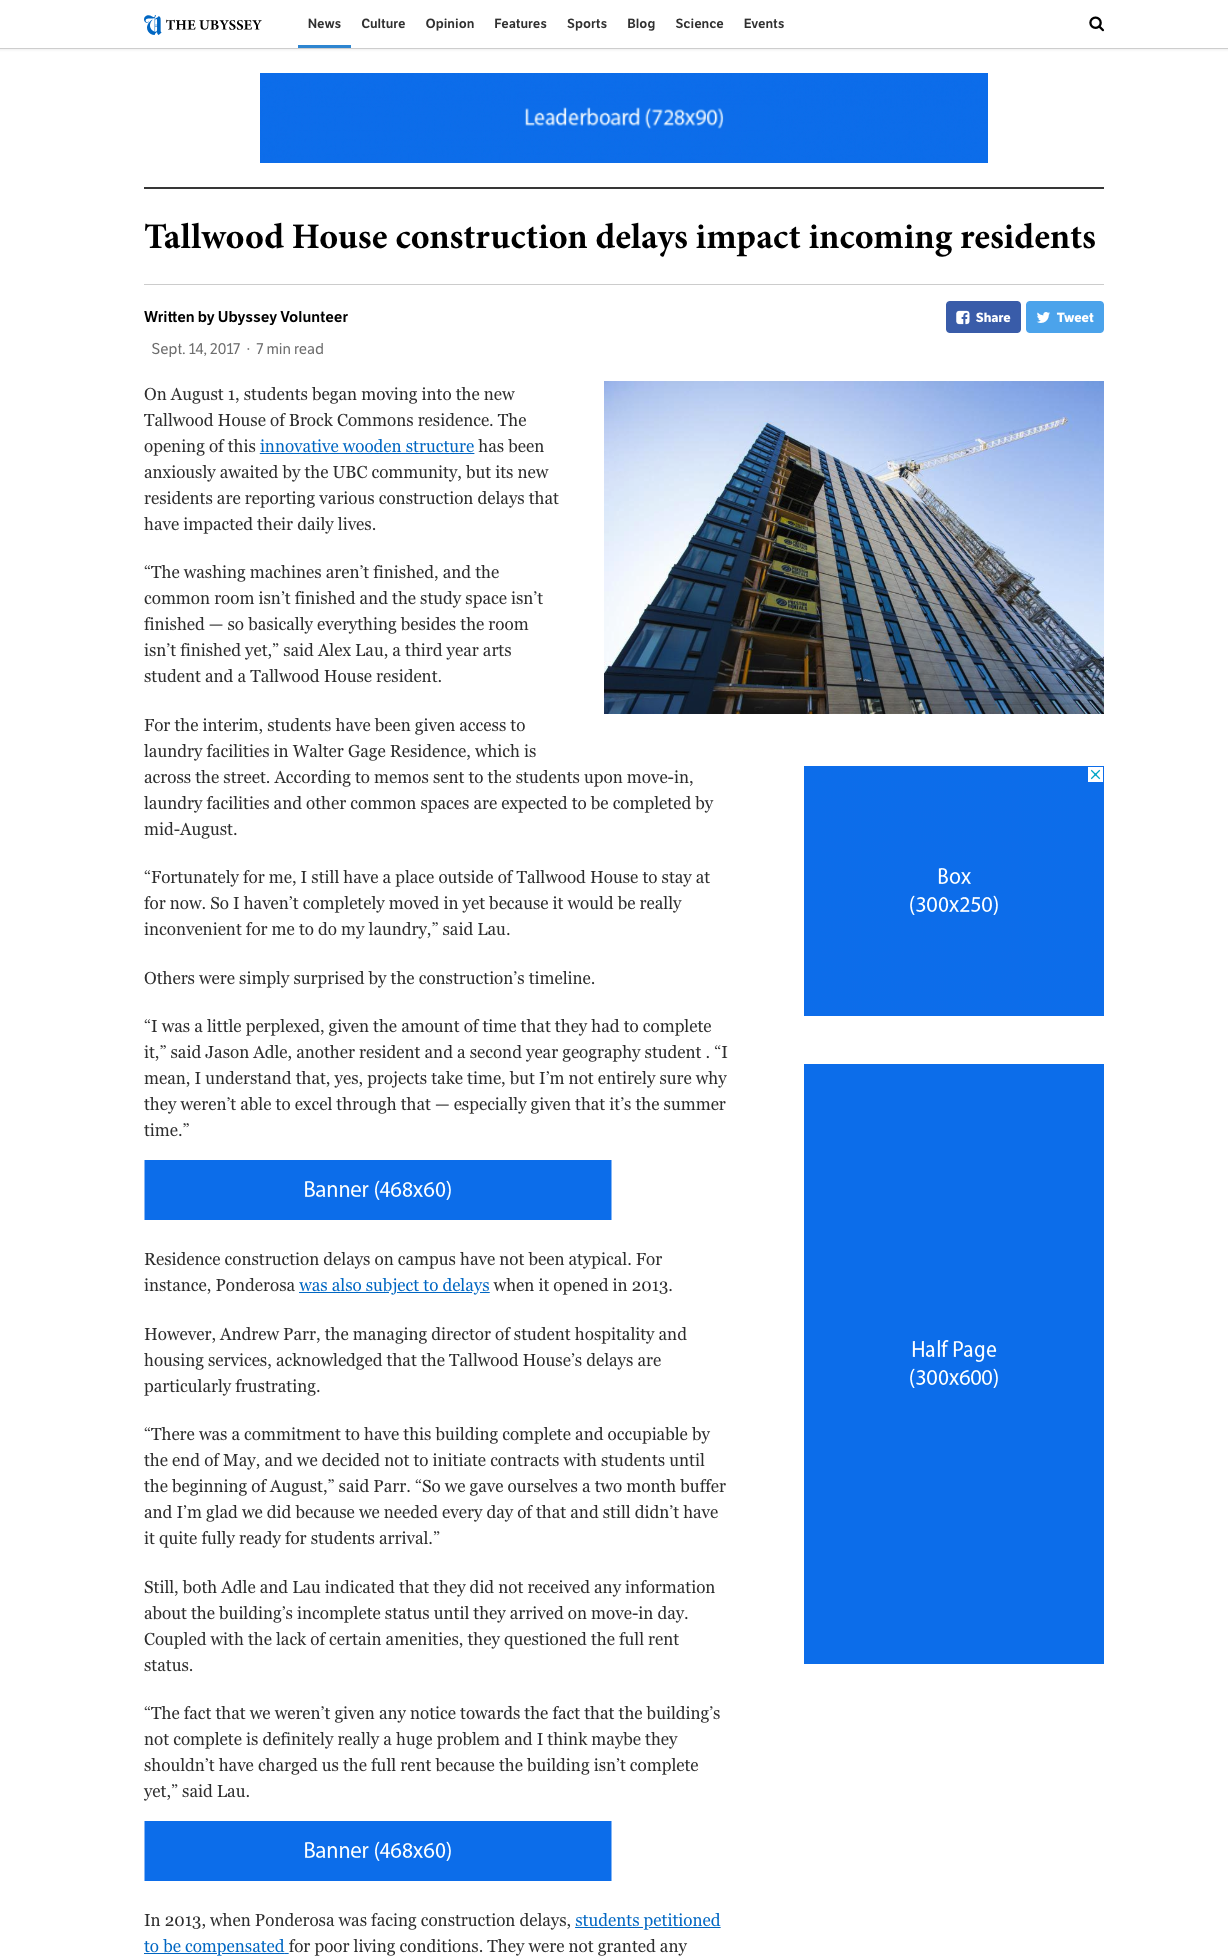
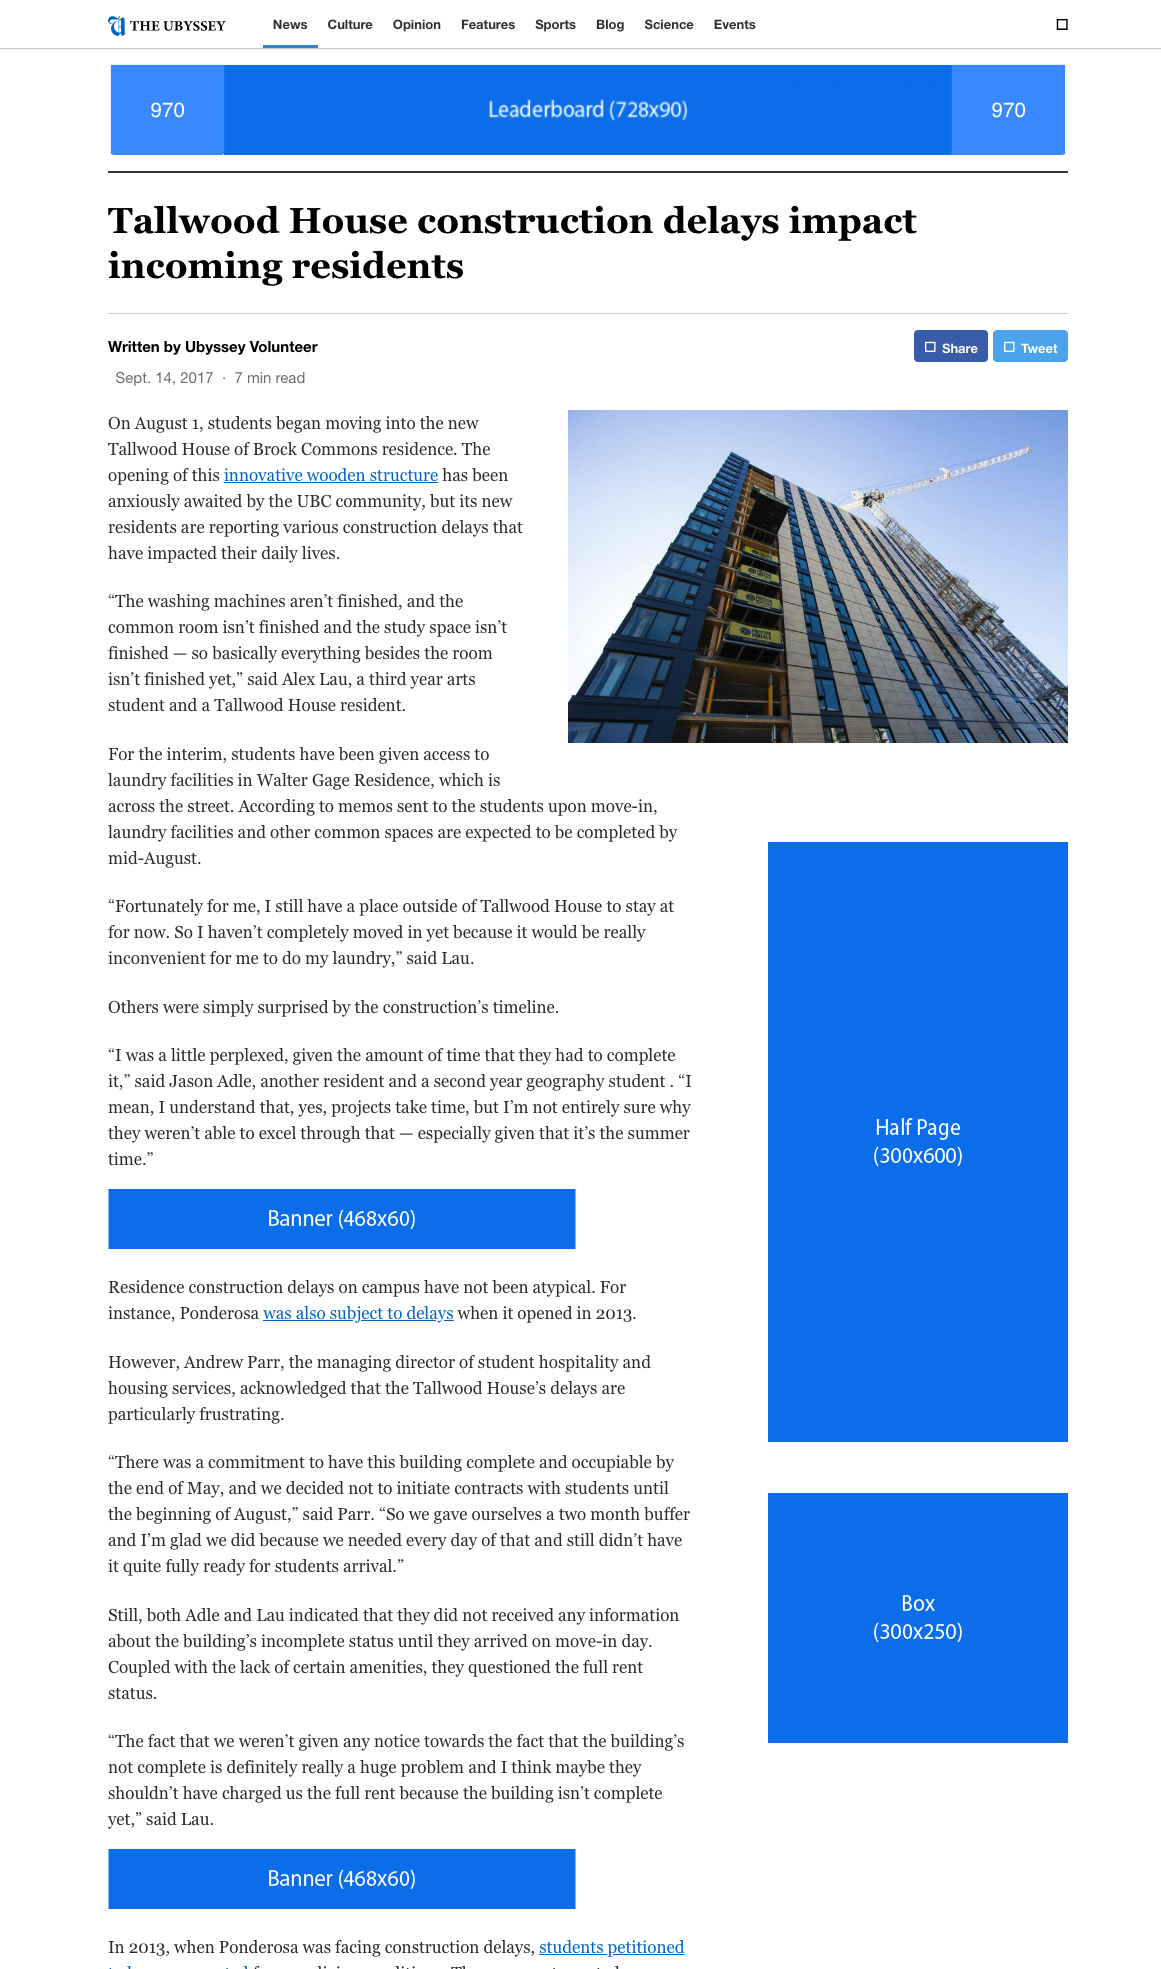
new images for the web placement demos

Changed region(s): [[0.093, 0.0, 0.9302, 1.0]]

diff --git a/ubyssey/templates/advertise/section-website-new.html b/ubyssey/templates/advertise/section-website-new.html
@@ -49,7 +49,7 @@
               <p>320 x 50 pixels (mobile)</p>
             </div>
           </li>
-          <li class="o-placements__placement o-placements__placement--demo" data-offset="-40%" data-horizontaloffset="100%">
+          <li class="o-placements__placement o-placements__placement--demo" data-offset="-20%" data-horizontaloffset="100%">
             <div>
               <h3>Box</h3>
               <p>300 x 250 pixels</p>
@@ -81,7 +81,7 @@
       <div class="o-placements__demo">
         <div class="o-placements__demo__inner">
             <div class="o-placements__demo__inner__left">
-              <img src="{% static 'images/a/demo-homepage.png' %}" />
+              <img src="{% static 'images/a/demo-homepage-new.png' %}" />
             </div>
             <div class="o-placements__demo__inner__right">
               <img src="{% static 'images/a/demo-article-new.png' %}" />
@@ -89,7 +89,7 @@
         </div>
       </div>
     </div>
-    <p>*Leaderboard requires both 970 & 728 sizes</p>
+    <p>*Leaderboards require all sizes mentioned</p>
     <div>
       <h3 class="o-heading o-heading--small">Pricing</h3>
       <div class="c-web-slider">
